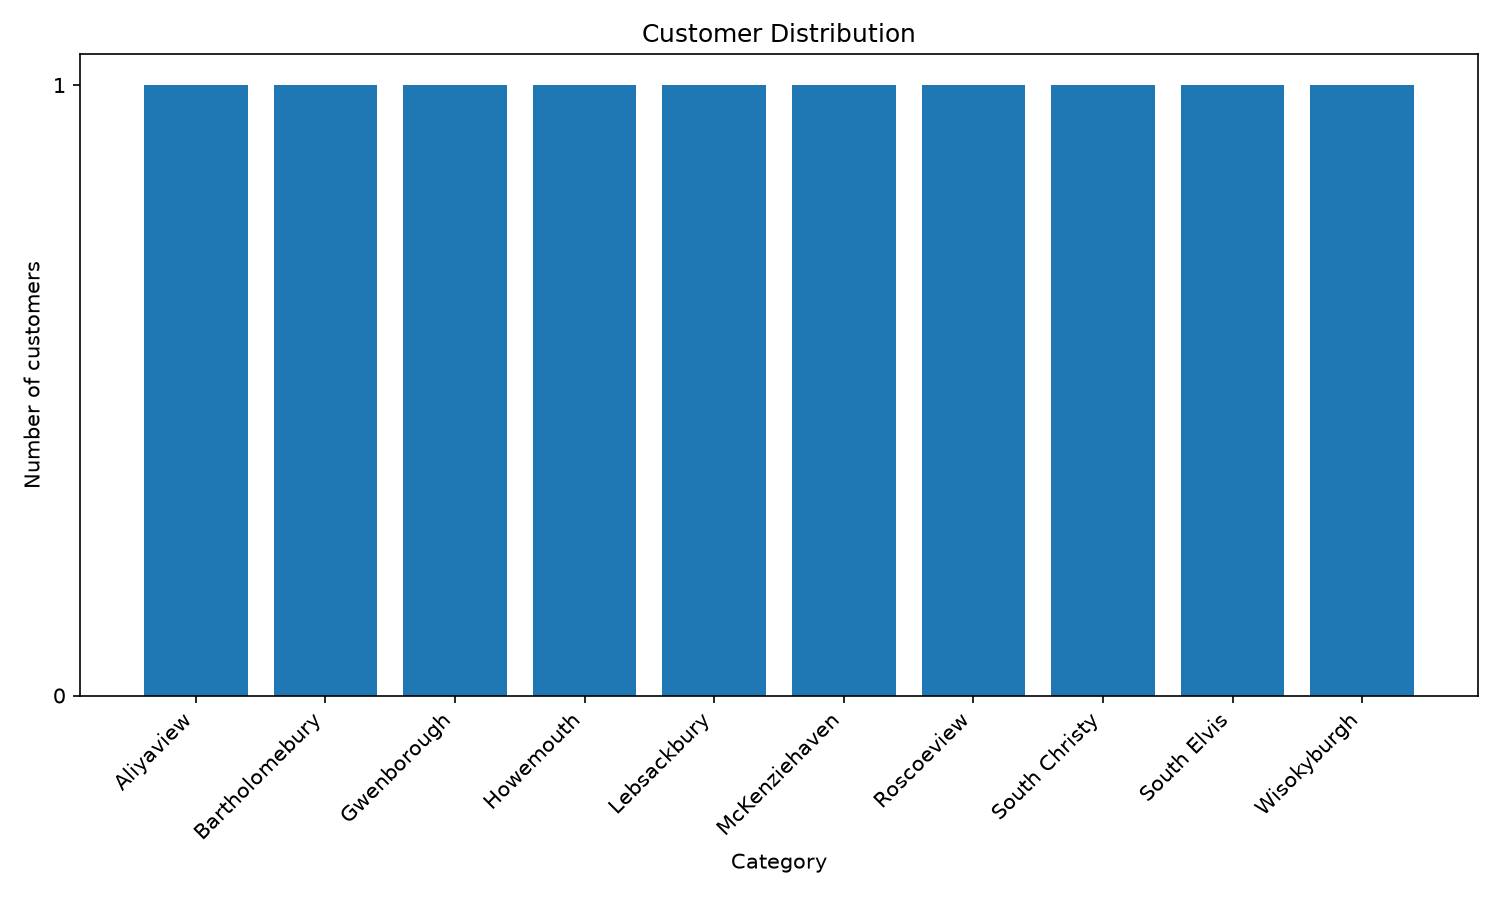
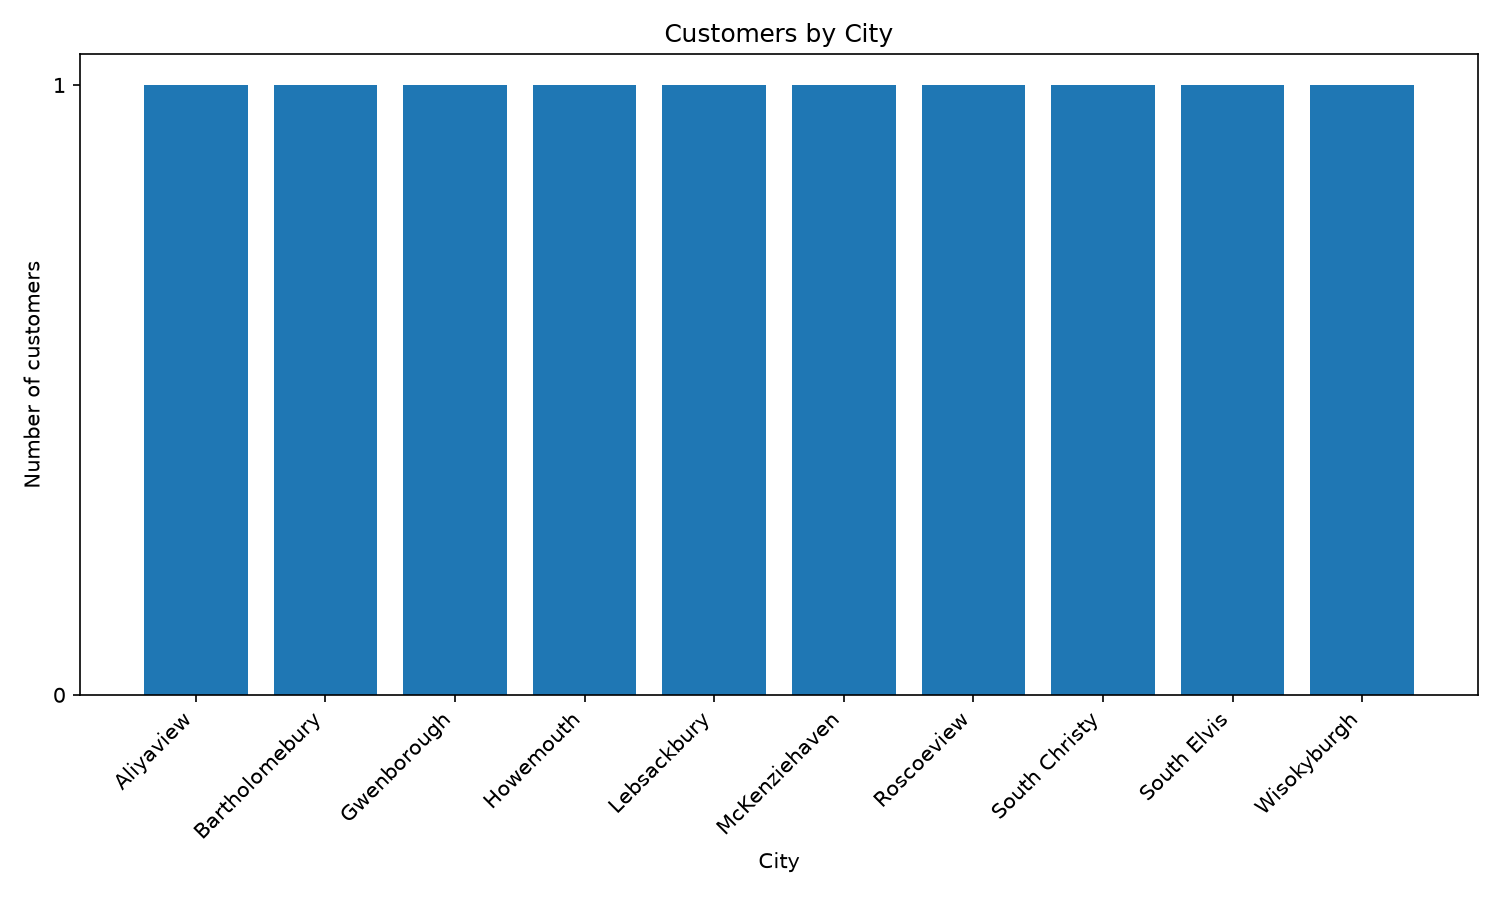
Add main workflow to run analysis and export results

diff --git a/analysis.py b/analysis.py
@@ -107,5 +107,60 @@ def plot_distribution(counts: dict[str, int], path: Path,
 
 
 if __name__ == "__main__":
-    # TODO: run each step and print a short findings summary
-    pass
+    output_dir = Path("output")
+    output_dir.mkdir(exist_ok=True)
+
+    # Fetch
+    customers = get_customers()
+    if not customers:
+        raise SystemExit(1)
+
+    # Explore one record
+    print("Structure of one customer record:")
+    explore(customers[0])
+    print()
+
+    # Extract flat attributes
+    rows = extract_attributes(customers)
+
+    # Unique cities
+    cities = unique_cities(customers)
+    print(f"{len(cities)} unique cities for {len(customers)} customers")
+
+    # Counts with plain Python, sorted most to least common
+    by_city = city_counts(customers)
+    by_domain = email_domain_counts(customers)
+    sort_key = lambda item: (-item[1], item[0])
+    sorted_cities = sorted(by_city.items(), key=sort_key)
+    sorted_domains = dict(sorted(by_domain.items(), key=sort_key))
+    print("City counts:", dict(sorted_cities))
+    print("Email domain counts:", sorted_domains)
+    print()
+
+    # DataFrame and cross-check against the hand-written counts
+    df = to_dataframe(rows)
+    print("DataFrame shape:", df.shape)
+    print(df.dtypes)
+    print("City counts match pandas:", df["city"].value_counts().to_dict() == by_city)
+    print("Domain counts match pandas:", df["email_domain"].value_counts().to_dict() == by_domain)
+    print()
+
+    # Export CSVs
+    df.to_csv(output_dir / "customers.csv", index=False)
+    city_df = pd.DataFrame(sorted_cities, columns=["city", "customer_count"])
+    city_df.to_csv(output_dir / "city_counts.csv", index=False)
+
+    # Charts
+    city_chart = output_dir / "customer_distribution.png"
+    domain_chart = output_dir / "email_domain_distribution.png"
+    plot_distribution(by_city, city_chart, "Customers by City", "City")
+    plot_distribution(by_domain, domain_chart, "Customers by Email Domain", "Email domain (TLD)")
+
+    # Findings summary
+    top_city, top_count = sorted_cities[0]
+    print("Customers retrieved :", len(customers))
+    print("Unique cities       :", len(cities))
+    print(f"Most common city    : {top_city} ({top_count})")
+    print("Email domains       :", sorted_domains)
+    print("Chart saved to      :", city_chart.as_posix())
+    print("Second chart saved  :", domain_chart.as_posix())
